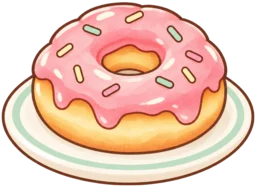
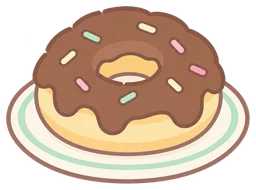
feat(games): Tiệm Bánh Mây new cake art, chocolate donut, blueberry cupcake and matcha roll
- Redraw the 13 finished cakes in the softer pastel style picked for the
  storefront decor, with matching bare bakes cropped on the same box so the
  kitchen's bottom-up decoration reveal lines up.
- Donut is now chocolate (same `donut` id, saves keep it; the strawberry
  glaze is set aside), the starter cupcake is blueberry, and a new matcha
  roll cake recipe (1500) adds a `roll` finishing step.
- New blueberry and matcha powder ingredients on the flavour aisle; the
  blueberry pack is cheap so the first week still pays for a recipe.
- DESIGN.md: the storefront decor and self-serve stand decisions (#16–#20)
  and the recipe changes.

diff --git a/packages/games/src/tiem-banh-may/config.ts b/packages/games/src/tiem-banh-may/config.ts
@@ -111,7 +111,9 @@ export type IngredientId =
   | "coconutMilk"
   | "mascarpone"
   | "saltedEgg"
-  | "porkFloss";
+  | "porkFloss"
+  | "blueberry"
+  | "matcha";
 
 /** How the kitchen measures it: on the scale, one by one, or by the teaspoon (5 g/ml). */
 export type Measure = "pour" | "count" | "spoon";
@@ -293,6 +295,20 @@ export const INGREDIENTS: Ingredient[] = [
     "ing-cocoa",
   ),
   ing(
+    "blueberry",
+    "Việt quất",
+    "Blueberries",
+    { unit: "g", measure: "pour", pack: 100, price: 12, fresh: true },
+    "ing-blueberry",
+  ),
+  ing(
+    "matcha",
+    "Bột matcha",
+    "Matcha powder",
+    { unit: "g", measure: "spoon", pack: 50, price: 24, fresh: false },
+    "ing-matcha",
+  ),
+  ing(
     "banana",
     "Chuối",
     "Bananas",
@@ -344,7 +360,8 @@ export type RecipeId =
   | "croissant"
   | "saltedegg"
   | "macaron"
-  | "tiramisu";
+  | "tiramisu"
+  | "matcharoll";
 
 export type MixMode = "cream" | "whisk" | "fold" | "knead" | "stir";
 export type StoveMode = "caramel" | "fry" | "cook" | "steam";
@@ -355,7 +372,8 @@ export type PipeMode =
   | "fill"
   | "cream"
   | "topping"
-  | "dust";
+  | "dust"
+  | "roll";
 
 /** One line of a recipe card, in order. */
 export type Step =
@@ -413,7 +431,7 @@ export const RECIPES: Recipe[] = [
   },
   {
     id: "cupcake",
-    name: { vi: "Cupcake vani", en: "Vanilla cupcakes" },
+    name: { vi: "Cupcake việt quất", en: "Blueberry cupcakes" },
     cost: 0,
     yield: 6,
     base: 8,
@@ -431,6 +449,7 @@ export const RECIPES: Recipe[] = [
       add("vanilla", 5),
       { kind: "mix", mode: "fold", turns: 3 },
       { kind: "oven", temp: 180, minutes: 18 },
+      add("blueberry", 30),
       { kind: "pipe", mode: "frost" },
     ],
   },
@@ -455,8 +474,10 @@ export const RECIPES: Recipe[] = [
     ],
   },
   {
+    // Chocolate since 2026-10-25; the strawberry glaze (strawberry 50,
+    // "Donut dâu") is set aside for now. Same id, so old saves keep the recipe.
     id: "donut",
-    name: { vi: "Donut dâu", en: "Strawberry donuts" },
+    name: { vi: "Donut sô-cô-la", en: "Chocolate donuts" },
     cost: 800,
     yield: 10,
     base: 9,
@@ -473,7 +494,7 @@ export const RECIPES: Recipe[] = [
       { kind: "wait", mode: "proof", minutes: 40 },
       add("oil", 500),
       { kind: "stove", mode: "fry", seconds: 4 },
-      add("strawberry", 50),
+      add("chocolate", 50),
       { kind: "pipe", mode: "glaze" },
     ],
   },
@@ -523,6 +544,29 @@ export const RECIPES: Recipe[] = [
       { kind: "mix", mode: "whisk", turns: 4 },
       add("strawberry", 250),
       { kind: "pipe", mode: "cream" },
+    ],
+  },
+  {
+    id: "matcharoll",
+    name: { vi: "Bánh cuộn matcha", en: "Matcha roll cake" },
+    cost: 1500,
+    yield: 8,
+    base: 13,
+    hands: 45,
+    qty: [1, 2],
+    sprite: "cake-matcharoll",
+    steps: [
+      add("eggs", 4),
+      add("sugar", 100),
+      { kind: "mix", mode: "whisk", turns: 5 },
+      add("flour", 80),
+      add("matcha", 10),
+      { kind: "mix", mode: "fold", turns: 3 },
+      { kind: "oven", temp: 180, minutes: 12 },
+      { kind: "wait", mode: "cool", minutes: 15 },
+      add("cream", 300),
+      { kind: "mix", mode: "whisk", turns: 4 },
+      { kind: "pipe", mode: "roll" },
     ],
   },
   {

diff --git a/packages/games/src/tiem-banh-may/strings.ts b/packages/games/src/tiem-banh-may/strings.ts
@@ -417,11 +417,12 @@ export const STRINGS: Localized<Strings> = {
     stepOven: (t, m) => `Nướng ${t}°C trong ${m} phút`,
     stepPipe: {
       frost: "Bắt kem",
-      glaze: "Phủ sốt dâu",
+      glaze: "Phủ sô-cô-la",
       fill: "Bơm kem",
       cream: "Phủ kem, xếp dâu",
       topping: "Phết sốt, rắc chà bông",
       dust: "Rắc bột ca cao",
+      roll: "Phết kem, cuộn bánh",
     },
     pickIng: "Chọn đúng nguyên liệu trên kệ",
     holdPour: "Giữ để đổ, thả tay để dừng",
@@ -657,6 +658,7 @@ export const STRINGS: Localized<Strings> = {
         cream: "Phủ kem",
         topping: "Phủ topping",
         dust: "Rắc ca cao",
+        roll: "Cuộn bánh",
       },
     },
     stepsTitle: "Các bước",
@@ -805,6 +807,7 @@ export const STRINGS: Localized<Strings> = {
       cream: "Cream & strawberries",
       topping: "Spread, add floss & egg",
       dust: "Dust with cocoa",
+      roll: "Spread the cream and roll",
     },
     pickIng: "Pick the right ingredient",
     holdPour: "Hold to pour, let go to stop",
@@ -1036,6 +1039,7 @@ export const STRINGS: Localized<Strings> = {
         cream: "Top",
         topping: "Top",
         dust: "Dust",
+        roll: "Roll",
       },
     },
     stepsTitle: "Steps",

diff --git a/packages/games/src/tiem-banh-may/bakeart.ts b/packages/games/src/tiem-banh-may/bakeart.ts
@@ -110,6 +110,8 @@ export const PILE: Record<
   mascarpone: { sprite: "pile-cream", liquid: true, color: "#fff9ee" },
   saltedEgg: { sprite: "pile-egg", liquid: false, color: "#f79a2e" },
   porkFloss: { sprite: "pile-yeast", liquid: false, color: "#d9a35c" },
+  blueberry: { sprite: "pile-blueberry", liquid: false, color: "#5d6bb5" },
+  matcha: { sprite: "pile-matcha", liquid: false, color: "#8db86b" },
 };
 
 export const bowlSprite = (state: BowlState) => BOWL_SPRITE[state];

diff --git a/packages/games/src/tiem-banh-may/market.ts b/packages/games/src/tiem-banh-may/market.ts
@@ -49,7 +49,16 @@ const AISLES: { id: Aisle; items: IngredientId[] }[] = [
   },
   {
     id: "flavour",
-    items: ["vanilla", "chocolate", "cocoa", "oil", "strawberry", "banana"],
+    items: [
+      "vanilla",
+      "chocolate",
+      "cocoa",
+      "matcha",
+      "oil",
+      "strawberry",
+      "blueberry",
+      "banana",
+    ],
   },
   { id: "special", items: ["saltedEgg", "porkFloss"] },
   // Records for the music box: bought at once, not through the basket

diff --git a/packages/games/src/tiem-banh-may/kitchen.ts b/packages/games/src/tiem-banh-may/kitchen.ts
@@ -753,6 +753,8 @@ function streamColor(id: IngredientId) {
     strawberry: "#ff6b7d",
     oil: "#ffd84d",
     chocolate: "#6b3b2a",
+    blueberry: "#5d6bb5",
+    matcha: "#8db86b",
   };
   return colors[id] ?? "#fff3d6";
 }

diff --git a/packages/games/src/tiem-banh-may/DESIGN.md b/packages/games/src/tiem-banh-may/DESIGN.md
@@ -90,6 +90,59 @@ slot and asks twice; the leaderboard keeps the player's best of all slots, so
 nothing is lost there. Each slot has its own local backup (`backup:<player>` for
 slot 0, as before slots, then `backup:<player>:<slot>`).
 
+## Storefront decor
+
+Decided with the owner on 2026-10-25 (issues #16–#20). The player furnishes
+the storefront like a cosy café; the furniture gives a new stat, **Charm**
+(*Cuốn hút*, heart icon), and Charm brings more customers.
+
+- **The room** is redrawn in a three-quarter top-down view, straight on (no
+  vanishing point, not isometric): the back wall with the arched door at the
+  top, a floor of square tiles below that reads as a grid. Wall and floor are
+  split on one straight baseboard line, so the player picks each separately.
+- **Free placement on the grid.** Tiles on the path from the door to the
+  counter, and the queue in front of the counter, can never take furniture,
+  so customers never walk through it. Furniture is drawn sorted by its bottom
+  row, then customers, then the counter.
+- **Decor mode** is a *Trang trí* button on the night screen (never while
+  open): drag from the storage drawer, tap to pick up, flip, put back. The
+  charm counter is live while decorating.
+- **Charm** is the sum of placed pieces' charm. A second copy of the same
+  piece counts 50%, a third 25%, more nothing; stored pieces count nothing.
+  **Set bonus**: 3 placed pieces of one theme +10%, 5 pieces +25%.
+- **Demand**: customers × `1 + 0.5 × (1 − e^(−charm / CHARM_SCALE))`, beside
+  weekday × weather, so it never outweighs reputation.
+- **Seats**: each placed seat makes queuing customers a little more patient
+  (capped), so seating matters beyond charm.
+- **Tiers** Giản dị → Ấm cúng → Dễ thương → Nổi tiếng: each new tier puts a
+  new theme on sale and raises the VIP chance a little.
+- **The Furniture aisle** (*Nội thất*) in the market: tables and chairs, decor,
+  walls and floors, each with a +charm chip; same basket and till. The basic
+  set and unlocked themes are always on sale; 2–3 rarer pieces rotate daily.
+- **Starting set** (free, placed in a default layout; old saves get it too):
+  two round tables, four wooden chairs, a potted plant, plain wall and floor.
+- **Themes**: Cơ bản (basic), Hồng ngọt (sweet pink), Vườn hoa (flower
+  garden), Rừng xanh (forest), Cổ điển (classic). Every piece of a theme shares
+  its colours and motifs; every piece of the game shares one camera and scale.
+- The leaderboard worth includes furniture value.
+
+### Self-serve stands (2026-10-25)
+
+The player no longer picks pieces for each order: customers serve themselves
+and the player works the till.
+- **Cake stands** (*quầy bánh*) are furniture placed on the grid, bought in
+  the Furniture aisle; each holds 2–3 batches, any recipe the player chooses
+  in decor/night prep. They replace the display-case screen. Two basic stands
+  come with the starting set; more stands mean more variety and add charm.
+- **Customers** walk in, browse the stands, take their pieces and queue at
+  the till. A wanted recipe that is missing: they usually take something else
+  on display; if the stands are nearly empty they leave a little sad (small
+  reputation cost), so a full, varied display still matters.
+- **The till** keeps the two skills: boxing (4+ pieces, the snuggest box tips)
+  and counting the change.
+- **The critic** looks for a 3★ piece on the stands and leaves without one;
+  **pre-orders** are taken from the held-back pieces automatically.
+
 ## Art
 
 Two looks for the world, plus the interface:
@@ -222,6 +275,14 @@ tiramisu (coffee joins the shelf for it), with eight new ingredients (rice
 and almond flour, cocoa, bananas, coconut milk, mascarpone, salted eggs, pork
 floss) in a new "Đặc sản" aisle and the others. The book shows recipes six to
 a page, cheapest first, with Recipes/Upgrades tabs.
+
+Changed with the owner on 2026-10-25: the donut is now **chocolate** (same
+`donut` id, so saves keep it; the strawberry glaze is set aside), the starter
+cupcake is **blueberry** (30 g of blueberries before the frosting, a cheap
+fresh pack so the first week still pays for a recipe), and a fourteenth
+recipe, the **matcha roll cake** (1500, sponge with matcha powder, cooled,
+spread with cream and rolled: a new `roll` finishing step). Blueberries and
+matcha powder are on the flavour aisle.
 
 ### UI kit
 
